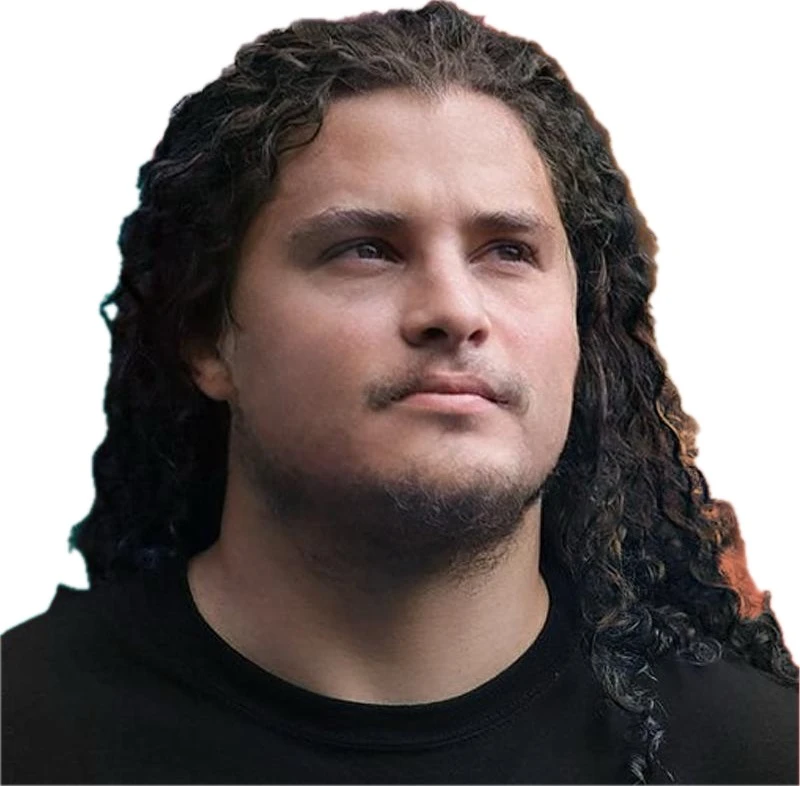
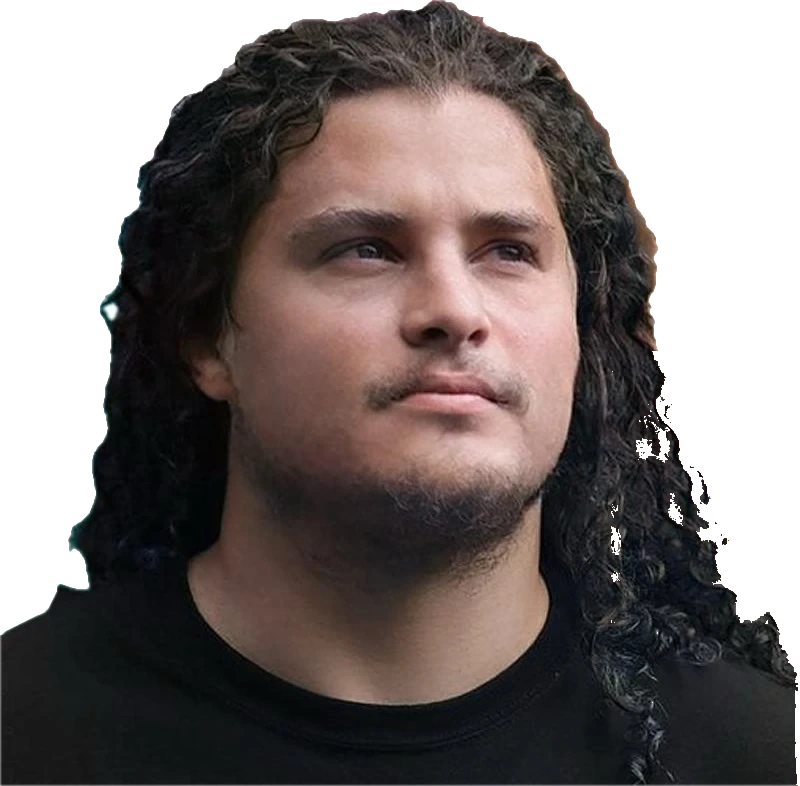
feat(portfolio): focus the standing presentation
The standing brief makes Victor and authentic work the primary evidence. Remove unused campaign artwork and labels, consolidate the final layout rules, and present the transparent portrait without legacy framing.

diff --git a/app/styles/app.css b/app/styles/app.css
@@ -80,24 +80,22 @@ h1, h2, h3, .footer-email { overflow-wrap: anywhere; }
 .icon-button:hover { border-color: var(--accent); color: var(--accent); }
 .menu-button { display: none; }
 
-.hero { position: relative; isolation: isolate; min-height: calc(100dvh - 76px); padding-top: clamp(2rem, 5vh, 3.5rem); padding-bottom: clamp(2rem, 5vh, 3.5rem); display: grid; grid-template-columns: minmax(0, 1.08fr) minmax(380px, .92fr); align-items: center; gap: clamp(2rem, 4vw, 5rem); }
-.hero-copy { position: relative; z-index: 2; }
-.hero h1 { margin: .75rem 0 1.2rem; font-size: clamp(3.3rem, 5.1vw, 5.7rem); line-height: .88; letter-spacing: -.075em; font-weight: 620; }
+.hero { position: relative; isolation: isolate; min-height: min(780px, calc(100dvh - 76px)); padding-top: clamp(2rem, 5vh, 3.5rem); padding-bottom: clamp(2rem, 5vh, 3.5rem); display: grid; grid-template-columns: minmax(0, 1.08fr) minmax(320px, .62fr); align-content: center; align-items: center; gap: clamp(2rem, 4vw, 5rem); }
+.hero-copy { position: relative; z-index: 2; max-width: 820px; }
+.hero h1 { max-width: 10ch; margin: .75rem 0 1.2rem; font-size: clamp(4.5rem, 8.3vw, 8.25rem); line-height: .88; letter-spacing: -.075em; font-weight: 620; }
 .hero h1 span { display: block; white-space: nowrap; }
-.hero-subhead { max-width: 50ch; margin: 0; color: var(--muted); font-size: clamp(1rem, 1.4vw, 1.25rem); line-height: 1.5; }
+.hero-subhead { max-width: 55ch; margin: 0; color: var(--muted); font-size: clamp(1.1rem, 1.6vw, 1.35rem); line-height: 1.5; }
 .hero-actions { display: flex; flex-wrap: wrap; gap: .75rem; margin-top: 2rem; }
 .button { min-height: 3.2rem; display: inline-flex; align-items: center; justify-content: center; gap: .55rem; padding: .8rem 1.15rem; border: 1px solid var(--accent); font-weight: 680; white-space: nowrap; }
 .button:hover { background: var(--ink); border-color: var(--ink); color: var(--canvas); }
 .button-primary { background: var(--accent); color: var(--action); }
 .button-secondary { color: var(--accent); background: transparent; }
 :root[data-theme="dark"] .button-primary { background: var(--ink); border-color: var(--ink); color: var(--canvas); }
-.work-section { padding-top: clamp(4.75rem, 8.5vw, 8rem); padding-bottom: clamp(4.75rem, 8.5vw, 8rem); }
+.work-section { padding-top: clamp(5rem, 9vw, 9rem); padding-bottom: clamp(5rem, 9vw, 9rem); }
 .section-intro { max-width: 920px; }
 .section-intro h2, .recognition-copy h2 { margin: .8rem 0 0; font-size: clamp(2.6rem, 5vw, 5.2rem); line-height: .96; letter-spacing: -.055em; text-wrap: balance; }
 .project-list { margin-top: clamp(2.75rem, 5.5vw, 4.75rem); }
 .project-row { --project-color: var(--accent); --project-ink: var(--accent); position: relative; isolation: isolate; padding-block: clamp(3rem, 6vw, 5.25rem); border-top: .45rem solid var(--project-color); }
-.project-row + .project-row { border-top-color: var(--project-color); }
-.project-row::before { content: ""; position: absolute; z-index: -1; inset: 0 calc(var(--pad) * -1); pointer-events: none; background-image: radial-gradient(circle at 88% 16%, color-mix(in srgb, var(--project-color) 18%, transparent) 0 .65px, transparent .9px), linear-gradient(100deg, transparent 0 58%, color-mix(in srgb, var(--project-color) 6%, transparent) 58% 100%); background-size: 7px 7px, auto; mask-image: linear-gradient(90deg, transparent, #000 45%, #000 92%, transparent); }
 .project-red { --project-color: var(--red); --project-ink: var(--red-ink); }
 .project-yellow { --project-color: var(--yellow); --project-ink: var(--gold-ink); }
 .project-green { --project-color: var(--green); --project-ink: var(--green-ink); }
@@ -109,17 +107,19 @@ h1, h2, h3, .footer-email { overflow-wrap: anywhere; }
 .text-link { display: inline-flex; align-items: center; gap: .45rem; color: var(--accent); font-weight: 680; border-bottom: 1px solid currentColor; padding-bottom: .2rem; }
 .project-row .text-link { color: var(--project-ink); }
 
-.recognition-section { min-height: 520px; display: grid; grid-template-columns: 1fr .8fr; align-items: center; gap: 4rem; padding-top: 5.25rem; padding-bottom: 5.25rem; }
-.recognition-copy p:not(.mono-label) { max-width: 58ch; color: var(--muted); font-size: 1.08rem; line-height: 1.6; }
+.recognition-section { min-height: 520px; display: block; padding-top: clamp(5rem, 9vw, 8rem); padding-bottom: clamp(5rem, 9vw, 8rem); border-top: .45rem solid var(--yellow); }
+.recognition-copy { max-width: 820px; }
+.recognition-copy p:not(.mono-label) { max-width: 48ch; color: var(--muted); font-size: 1.08rem; line-height: 1.6; }
 .portrait-frame { margin: 0; padding-top: .75rem; border-top: 1px solid var(--ink); }
-.portrait-frame img { width: 100%; aspect-ratio: 800 / 786; object-fit: cover; object-position: 50% 35%; background: #f7f7f5; }
+.portrait-frame img { display: block; width: 100%; aspect-ratio: 800 / 786; object-fit: cover; object-position: 50% 35%; }
 .portrait-frame figcaption { margin-top: .8rem; color: var(--muted); font: 600 .72rem/1.4 "IBM Plex Mono", monospace; text-transform: uppercase; letter-spacing: .08em; }
 
 .case-study { --project-color: var(--accent); }
 .case-hero { padding-top: 3rem; padding-bottom: 4rem; }
 .back-link { display: inline-flex; gap: .4rem; align-items: center; color: var(--muted); font-size: .85rem; }
-.case-title-grid { min-width: 0; margin-top: 3.75rem; display: grid; grid-template-columns: 1.5fr .5fr; align-items: end; gap: 4rem; }
-.case-title-grid h1 { max-inline-size: 100%; margin: .6rem 0 1rem; overflow-wrap: anywhere; font-size: clamp(4.5rem, 11vw, 10rem); line-height: .82; letter-spacing: -.075em; }
+.case-title-grid { min-width: 0; margin-top: 3.75rem; display: grid; grid-template-columns: 1fr; align-items: end; gap: 4rem; }
+.case-title-grid > div { max-width: 900px; }
+.case-title-grid h1 { max-inline-size: 100%; margin: .6rem 0 1rem; overflow-wrap: anywhere; font-size: clamp(4.5rem, 10vw, 9rem); line-height: .82; letter-spacing: -.075em; }
 .case-title-grid .mono-label { color: var(--project-ink, var(--project-color)); font-weight: 700; }
 .case-lede { max-width: 34ch; font-size: clamp(1.35rem, 2.3vw, 2rem); line-height: 1.3; }
 
@@ -162,9 +162,8 @@ h1, h2, h3, .footer-email { overflow-wrap: anywhere; }
   .primary-nav { position: absolute; top: 76px; left: 0; right: 0; display: none; flex-direction: column; align-items: stretch; gap: 0; padding: 1rem var(--pad) 1.5rem; background: var(--canvas); border-bottom: 1px solid var(--line); }
   .primary-nav.is-open { display: flex; }
   .primary-nav a { padding: .9rem 0; }
-  .hero { grid-template-columns: 1fr; align-content: start; min-height: auto; }
-  .case-title-grid { grid-template-columns: 1fr; gap: 1.5rem; }
-  .recognition-section { grid-template-columns: 1fr; }
+  .hero { grid-template-columns: 1fr; }
+  .case-title-grid { gap: 1.5rem; }
   .portrait-frame { width: min(82%, 560px); margin-inline: auto; }
   .external-links { align-items: flex-start; flex-direction: column; }
   .resume-summary { grid-template-columns: 1fr; gap: 1rem; }
@@ -176,12 +175,11 @@ h1, h2, h3, .footer-email { overflow-wrap: anywhere; }
   .primary-nav { top: 68px; }
   .brand > span:last-child { display: none; }
   .hero { min-height: calc(100dvh - 68px); padding-top: 2.5rem; }
-  .hero h1 { font-size: clamp(2.8rem, 13.5vw, 5.2rem); }
+  .hero h1 { font-size: clamp(3.5rem, 18vw, 5.8rem); }
   .hero h1 span { white-space: normal; }
   .hero-actions, .hero-actions .button { width: 100%; }
   .project-list { margin-top: 3rem; }
-  .project-row { gap: 2.5rem; padding-block: 4rem; }
-  .recognition-section { gap: 3rem; }
+  .project-row { gap: 2.5rem; padding-block: 3.5rem; }
   .resume-header { align-items: flex-start; flex-direction: column; padding-top: 4rem; padding-bottom: 4rem; }
   .case-title-grid { margin-top: 3rem; }
   .case-title-grid h1 { font-size: 23vw; }
@@ -198,16 +196,9 @@ h1, h2, h3, .footer-email { overflow-wrap: anywhere; }
   .button:hover { transform: none; }
 }
 
-/* Campaign 4: a quieter, screenshot-led client story. */
-.hero { min-height: min(780px, calc(100dvh - 76px)); grid-template-columns: minmax(0, 1.08fr) minmax(320px, .62fr); align-content: center; }
-.hero-copy { max-width: 820px; }
-.hero h1 { max-width: 10ch; font-size: clamp(4.5rem, 8.3vw, 8.25rem); }
 .hero-role { margin: 0 0 .8rem; color: var(--accent); font-size: clamp(1.5rem, 2.8vw, 2.4rem); line-height: 1.05; letter-spacing: -.04em; }
-.hero-subhead { max-width: 55ch; font-size: clamp(1.1rem, 1.6vw, 1.35rem); }
 .hero-portrait { width: min(100%, 520px); justify-self: end; border-top-width: .45rem; border-top-color: var(--red); }
-.work-section { padding-top: clamp(5rem, 9vw, 9rem); padding-bottom: clamp(5rem, 9vw, 9rem); }
 .section-intro h2 { max-width: 12ch; }
-.project-row::before { content: none; }
 .simple-project { display: grid; grid-template-columns: minmax(0, 1.18fr) minmax(300px, .72fr); gap: clamp(2.5rem, 6vw, 7rem); align-items: center; }
 .project-row:nth-child(even) .project-screenshot { order: 2; }
 .project-row:nth-child(even) .project-copy { order: 1; }
@@ -218,13 +209,7 @@ h1, h2, h3, .footer-email { overflow-wrap: anywhere; }
 .project-screenshot figcaption, .case-screenshot figcaption { margin-top: .75rem; color: var(--muted); font: 500 .7rem/1.4 "IBM Plex Mono", monospace; }
 .simple-project .project-copy h3 { margin: .75rem 0 1.1rem; }
 .simple-project-actions { display: flex; flex-wrap: wrap; gap: .9rem 1.5rem; }
-.recognition-compact { display: block; padding-top: clamp(5rem, 9vw, 8rem); padding-bottom: clamp(5rem, 9vw, 8rem); border-top: .45rem solid var(--yellow); }
-.recognition-compact .recognition-copy { max-width: 820px; }
-.recognition-compact .recognition-copy > p:not(.mono-label) { max-width: 48ch; color: var(--muted); font-size: 1.08rem; line-height: 1.6; }
 .recognition-compact .text-link { margin-top: 1rem; }
-.case-title-grid { grid-template-columns: 1fr; }
-.case-title-grid > div { max-width: 900px; }
-.case-title-grid h1 { font-size: clamp(4.5rem, 10vw, 9rem); }
 .case-screenshot { margin-top: clamp(3rem, 6vw, 5rem); }
 .project-contributions { display: flex; flex-wrap: wrap; gap: .4rem 1.35rem; margin: 1.75rem 0 0; padding: 1rem 0; border-top: 1px solid var(--line); border-bottom: 1px solid var(--line); list-style: none; }
 .project-contributions li { position: relative; padding-left: .8rem; color: var(--ink); font-size: .82rem; line-height: 1.5; }
@@ -238,7 +223,6 @@ h1, h2, h3, .footer-email { overflow-wrap: anywhere; }
 .contribution-list p { max-width: 62ch; margin: 0; color: var(--muted); font-size: 1rem; line-height: 1.6; }
 
 @media (max-width: 900px) {
-  .hero { grid-template-columns: 1fr; }
   .hero-portrait { width: min(78%, 520px); justify-self: end; }
   .simple-project { grid-template-columns: 1fr; }
   .project-row:nth-child(even) .project-screenshot,
@@ -248,10 +232,7 @@ h1, h2, h3, .footer-email { overflow-wrap: anywhere; }
 }
 
 @media (max-width: 620px) {
-  .hero { min-height: calc(100dvh - 68px); }
-  .hero h1 { font-size: clamp(3.5rem, 18vw, 5.8rem); }
   .hero-portrait { width: 100%; justify-self: stretch; margin-top: 1rem; }
-  .project-row { padding-block: 3.5rem; }
   .project-screenshot figcaption, .case-screenshot figcaption { font-size: .64rem; }
   .case-title-grid h1 { font-size: clamp(3rem, 18.5vw, 7rem); }
   .project-contributions { gap: .35rem .9rem; }

diff --git a/tests/site-data.test.ts b/tests/site-data.test.ts
@@ -1,5 +1,5 @@
 import { describe, expect, it } from "vitest";
-import { getProject, projectBySlug, projects, recognition, site } from "~/data/site";
+import { projectBySlug, projects, recognition, site, type Project } from "~/data/site";
 
 describe("portfolio content model", () => {
   it("has four unique projects with stable route lookups", () => {
@@ -8,9 +8,8 @@ describe("portfolio content model", () => {
 
     for (const project of projects) {
       expect(projectBySlug[project.slug]).toBe(project);
-      expect(getProject(project.slug)).toBe(project);
     }
-    expect(getProject("not-a-project")).toBeUndefined();
+    expect((projectBySlug as Record<string, Project | undefined>)["not-a-project"]).toBeUndefined();
   });
 
   it("keeps every public image and project action on HTTPS", () => {
@@ -22,19 +21,19 @@ describe("portfolio content model", () => {
   });
 
   it("keeps outcomes in human-readable project copy instead of a metrics model", () => {
-    expect(getProject("send")?.lede).toContain("$53M+");
-    expect(getProject("shenanigan")?.contributions.map(({ detail }) => detail).join(" ")).toContain("$100K+");
-    expect(getProject("brightid")?.lede).toContain("11,000+");
-    expect(getProject("open-source")?.lede).toContain("four open-source ecosystems");
+    expect(projectBySlug.send.lede).toContain("$53M+");
+    expect(projectBySlug.shenanigan.contributions.map(({ detail }) => detail).join(" ")).toContain("$100K+");
+    expect(projectBySlug.brightid.lede).toContain("11,000+");
+    expect(projectBySlug["open-source"].lede).toContain("four open-source ecosystems");
     expect(JSON.stringify(projects)).not.toMatch(/"metrics"/);
   });
 
   it("represents the complete primary contribution scope from the resume", () => {
-    expect(getProject("send")?.contributions).toHaveLength(5);
-    expect(getProject("shenanigan")?.contributions).toHaveLength(4);
-    expect(getProject("brightid")?.contributions).toHaveLength(4);
-    expect(getProject("open-source")?.contributions).toHaveLength(4);
-    expect(getProject("open-source")?.links.map(({ label }) => label)).toEqual([
+    expect(projectBySlug.send.contributions).toHaveLength(5);
+    expect(projectBySlug.shenanigan.contributions).toHaveLength(4);
+    expect(projectBySlug.brightid.contributions).toHaveLength(4);
+    expect(projectBySlug["open-source"].contributions).toHaveLength(4);
+    expect(projectBySlug["open-source"].links.map(({ label }) => label)).toEqual([
       "SourceCred",
       "Honeyswap",
       "BrightID",

diff --git a/tests/design-system.test.ts b/tests/design-system.test.ts
@@ -4,7 +4,7 @@ import { describe, expect, it } from "vitest";
 const css = readFileSync("app/styles/app.css", "utf8");
 
 describe("Montréal Editorial design system", () => {
-  it("uses the Campaign 3 saturated screen-print palette", () => {
+  it("uses the saturated screen-print palette", () => {
     expect(css).toContain("--canvas: #f1eadb;");
     expect(css).toContain("--ink: #11110f;");
     expect(css).toContain("--accent: #0057a8;");

diff --git a/tests/case-study.test.tsx b/tests/case-study.test.tsx
@@ -6,7 +6,7 @@ import { projects } from "~/data/site";
 
 afterEach(cleanup);
 
-describe("Campaign 4 case studies", () => {
+describe("case studies", () => {
   it("uses a screenshot-led account of Victor's complete project scope", () => {
     for (const project of projects) {
       const { container, unmount } = render(

diff --git a/tests/home-hero.test.tsx b/tests/home-hero.test.tsx
@@ -11,7 +11,7 @@ vi.mock("~/components/reveal", () => ({
 
 afterEach(cleanup);
 
-describe("Campaign 4 homepage", () => {
+describe("homepage", () => {
   it("leads with Victor, his portrait, introduction, and resume", () => {
     const { container } = render(<Home />);
     const hero = container.querySelector(".hero");

diff --git a/tests/selected-work.test.tsx b/tests/selected-work.test.tsx
@@ -12,7 +12,7 @@ vi.mock("~/components/reveal", () => ({
 
 afterEach(cleanup);
 
-describe("Campaign 4 selected work", () => {
+describe("selected work", () => {
   it("gives every project one authentic screenshot and one concise composition", () => {
     const { container } = render(
       <MemoryRouter>

diff --git a/app/data/site.ts b/app/data/site.ts
@@ -209,7 +209,3 @@ export const recognition = {
 export const projectBySlug = Object.fromEntries(
   projects.map((project) => [project.slug, project]),
 ) as Record<ProjectSlug, Project>;
-
-export function getProject(slug: string): Project | undefined {
-  return projectBySlug[slug as ProjectSlug];
-}
